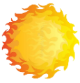
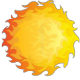
Redimensionamento das imagens

diff --git a/LoseWorld.java b/LoseWorld.java
@@ -21,6 +21,34 @@ public class LoseWorld extends World
         Prepare(xLapide, yLapide, score);
     }
     
+    public LoseWorld()
+    {
+        super(750, 750, 1);
+        Prepare(0);
+    }
+    
+    private void Prepare(int score) 
+    {
+
+            // Aparece o Lose no meio da tela
+            Lose lose = new Lose();
+            addObject(lose, 375, 375);
+
+            // Aparece a pontuação na imagem do Lose
+            if(score>0)
+            {
+                score--;
+            }
+            showText("Seus pontos: " + score, 375, 450);
+
+            //Reinicia o jogo
+            showText("Pressione ENTER para reiniciar o jogo", 375, 700);
+
+            // Ver pontuação
+            showText("Pressione ESPAÇO para ver a lista de pontuação", 375, 725);
+            
+    }
+    
     private void Prepare(int xLapide, int yLapide, int score) 
     {
 

diff --git a/Chamas.java b/Chamas.java
@@ -42,9 +42,18 @@ public class Chamas extends Actor
         }
         move(2);
         
-        if(getY()==mundo.getHeight()*9/10  || isAtEdge())
+        if(getY()>mundo.getHeight()*4/5)
         {
             mundo.removeObject(this);
         }
+        else if(getIntersectingObjects(Guerreiro.class).size()==1)
+        {
+            getWorld().removeObject(this);
+            Greenfoot.setWorld(new LoseWorld());
+        }/*
+        else if(getY()==mundo.getHeight()*9/10  || isAtEdge())
+        {
+            mundo.removeObject(this);
+        }*/
     }
 }

diff --git a/BolaDeFogo.java b/BolaDeFogo.java
@@ -19,10 +19,17 @@ public class BolaDeFogo extends Actor
         animar();
         setLocation(getX(), getY() +5);
         
-        if(isAtEdge())
+        if(getIntersectingObjects(Guerreiro.class).size()==1)
+        {
+            getWorld().removeObject(this);
+            Greenfoot.setWorld(new LoseWorld());
+        }
+        else if(isAtEdge())
         {
             getWorld().removeObject(this);
         }
+        
+        
     }
     
     private void animar()

diff --git a/Fogo.java b/Fogo.java
@@ -25,7 +25,12 @@ public class Fogo extends Actor
         animar();
         tempoVivo++;
         
-        if(tempoVivo==100)
+        if(getIntersectingObjects(Guerreiro.class).size()==1)
+        {
+            getWorld().removeObject(this);
+            Greenfoot.setWorld(new LoseWorld());
+        }
+        else if(tempoVivo==100)
         {
             getWorld().removeObject(this);
         }
